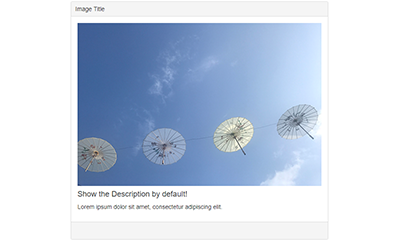
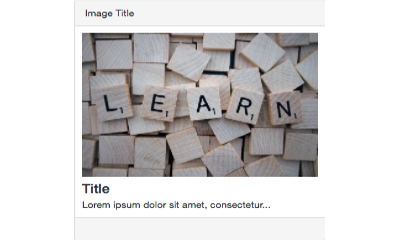
LDEV-4432: Tweaking snippets images and text
Adding new public domain images as well as tweaking layouts slightly

diff --git a/lams_www/web/public/ckeditor-templates/bootsnippets.js b/lams_www/web/public/ckeditor-templates/bootsnippets.js
@@ -115,11 +115,11 @@ CKEDITOR.addSnippets( 'bootsnippets-text', {
 		css: '',
 		html: 
 		'<div class="row">' +
-		'	<div class="col-md-6 col-md-offset-3">Lorem ipsum dolor sit amet, consectetur adipiscing elit, sed do eiusmod tempor incididunt ut labore et dolore magna aliqua.</div>' +
+		'	<div class="col-md-8 col-md-offset-2 lead"><em>"It is the same with people as it is with riding a bike. Only when moving can one comfortably maintain one\'s balance."</em></div>' +
 		'</div>' +
 		'<div class="row">' +
-		'	<div class="text-center voffset20">' +
-		'		<img src="https://www.w3schools.com/bootstrap/img_avatar1.png" style="width:60px">' +
+		'	<div class="text-center">' +
+		'		<img class="img-circle" src="/lams/www/public/ckeditor-templates/images/albert.jpg" style="width:80px">' +
 		'	</div>' +
 		'</div>'
 	},
@@ -221,7 +221,7 @@ CKEDITOR.addSnippets( 'bootsnippets-image', {
 		css: '',
 		html: 
 		'<div class="col-md-12">' +
-			'<img alt="..." class="img-responsive center-block" src="/lams/www/public/ckeditor-templates/images/orangutan_house.jpg">' +
+			'<img class="img-responsive center-block" src="/lams/www/public/ckeditor-templates/images/centered_image.jpg">' +
 		'</div>'
 	},
 	{
@@ -232,7 +232,7 @@ CKEDITOR.addSnippets( 'bootsnippets-image', {
 		html: 
 		'<div class="row">' +
 	    ' 	<div class="col-md-12" style="padding-left:0; padding-right:0;">' +
-	    '  		<img src="/lams/www/public/ckeditor-templates/images/orangutan_house.jpg" class="img-responsive" style="width: 100%;"/>' +
+	    '  		<img src="/lams/www/public/ckeditor-templates/images/image_full_width.jpg" class="img-responsive" style="width: 100%;"/>' +
 	    '	</div>' +
 	    '</div>'
 	},
@@ -244,7 +244,7 @@ CKEDITOR.addSnippets( 'bootsnippets-image', {
 		html: 
 		'<div class="row">' +
 		'	<div class="col-md-4 col-sm-6">' +
-		'		<img class="img-responsive" src="/lams/www/public/ckeditor-templates/images/orangutan_house.jpg">' +
+		'		<img class="img-responsive" src="/lams/www/public/ckeditor-templates/images/sanfran.jpg">' +
 		'	</div>' +
 	
 		'	<div class="col-md-8 col-sm-6">' +
@@ -260,8 +260,8 @@ CKEDITOR.addSnippets( 'bootsnippets-image', {
 		css: '',
 		html: 
 		'<div class="container">' +
-		'	<div class="col-md-6">' +
-		'		<img alt="test" class="img-responsive" src="/lams/www/public/ckeditor-templates/images/soaring_umbrellas.jpg">' +
+		'	<div class="col-xs-12 col-sm-9 col-sm-offset-1">' +
+		'		<img class="img-responsive" src="/lams/www/public/ckeditor-templates/images/desk.jpg">' +
 		'		<div class="carousel-caption">' +
 		'			<h2>Lorem ipsum dolor sit amet, consectetur adipiscing elit. Ut eleifend, turpis non luctus tempor</h2>' +
 		'		</div>' +
@@ -276,11 +276,11 @@ CKEDITOR.addSnippets( 'bootsnippets-image', {
 		html: 
 		'<div class="col-md-6">' +
 		'	<div class="panel panel-default">' +
-		'		<div class="panel-heading">Image Title</div>' +
+		'		<div class="panel-heading">Image header</div>' +
 			
 		'		<div class="panel-body">' +
-		'			<img alt="" class="img-responsive center-block" src="/lams/www/public/ckeditor-templates/images/soaring_umbrellas.jpg">' +
-		'			<h4>Show the Description by default!</h4>' +
+		'			<img class="img-responsive center-block" src="/lams/www/public/ckeditor-templates/images/learn.jpg">' +
+		'			<h4>Title</h4>' +
 		'			<p>Lorem ipsum dolor sit amet, consectetur adipiscing elit. Sed in lobortis nisl, vitae iaculis sapien. Phasellus ultrices gravida massa luctus ornare. Suspendisse blandit quam elit, eu imperdiet neque semper et.</p>' +
 		'		</div>' +
 		
@@ -304,26 +304,26 @@ CKEDITOR.addSnippets( 'bootsnippets-image', {
 		'    <div class="carousel-inner">' +
 		
 		'      <div class="item active">' +
-		'        <img src="/lams/www/public/ckeditor-templates/images/sealine.jpg" alt="Los Angeles" style="width:100%;">' +
+		'        <img src="/lams/www/public/ckeditor-templates/images/sealine.jpg" style="width:100%;">' +
 		'        <div class="carousel-caption">' +
-		'          <h3>Cape Phiolent</h3>' +
-		'          <p>Is always so much fun!</p>' +
+		'          <h3>Ireland</h3>' +
+		'          <p>Sealine</p>' +
 		'        </div>' +
 		'      </div>' +
 		
 		'      <div class="item">' +
-		'        <img src="/lams/www/public/ckeditor-templates/images/desert.jpg" alt="Chicago" style="width:100%;">' +
+		'        <img src="/lams/www/public/ckeditor-templates/images/meduana.jpg" style="width:100%;">' +
 		'        <div class="carousel-caption">' +
-		'          <h3>Iran</h3>' +
-		'          <p>Thank you, Iranian desert!</p>' +
+		'          <h3>Germany</h3>' +
+		'          <p>Speicherstadt, Hamburg</p>' +
 		'        </div>' +
 		'      </div>' +
 		    
 		'      <div class="item">' +
-		'        <img src="/lams/www/public/ckeditor-templates/images/mountain_ridge.jpg" alt="New York" style="width:100%;">' +
+		'        <img src="/lams/www/public/ckeditor-templates/images/fuji.jpg" style="width:100%;">' +
 		'        <div class="carousel-caption">' +
-		'          <h3>Tehran</h3>' +
-		'          <p>We love Tehran!</p>' +
+		'          <h3>Japan</h3>' +
+		'          <p>Mount Fuji</p>' +
 		'        </div>' +
 		'      </div>' +
 		  
@@ -348,7 +348,7 @@ CKEDITOR.addSnippets( 'bootsnippets-image', {
 		'<div class="row">' +
 		'    <div class="col-md-6">' +
 		'	    <div class="thumbnail">' +
-		'	        <img src="/lams/www/public/ckeditor-templates/images/sealine.jpg" alt="Lights" style="width:100%">' +
+		'	        <img alt="" src="/lams/www/public/ckeditor-templates/images/stairs.jpg" style="width:100%">' +
 		'	        <div class="caption">' +
 		'	          <p>Lorem ipsum donec id elit non mi porta gravida at eget metus.</p>' +
 		'	        </div>' +
@@ -356,7 +356,7 @@ CKEDITOR.addSnippets( 'bootsnippets-image', {
 		'	  </div>' +
 		'	  <div class="col-md-6">' +
 		'	    <div class="thumbnail">' +
-		'	        <img src="/lams/www/public/ckeditor-templates/images/desert.jpg" alt="Nature" style="width:100%">' +
+		'	        <img alt="" src="/lams/www/public/ckeditor-templates/images/study.jpg" style="width:100%">' +
 		'	        <div class="caption">' +
 		'	          <p>Lorem ipsum donec id elit non mi porta gravida at eget metus.</p>' +
 		'	        </div>' +
@@ -373,7 +373,7 @@ CKEDITOR.addSnippets( 'bootsnippets-image', {
 		'<div class="row">' +
 		'    <div class="col-md-4">' +
 		'	    <div class="thumbnail">' +
-		'	        <img src="/lams/www/public/ckeditor-templates/images/sealine.jpg" alt="Lights" style="width:100%">' +
+		'	        <img src="/lams/www/public/ckeditor-templates/images/math.jpg" alt="" style="width:100%">' +
 		'	        <div class="caption">' +
 		'	          <p>Lorem ipsum donec id elit non mi porta gravida at eget metus.</p>' +
 		'	        </div>' +
@@ -381,7 +381,7 @@ CKEDITOR.addSnippets( 'bootsnippets-image', {
 		'	  </div>' +
 		'	  <div class="col-md-4">' +
 		'	    <div class="thumbnail">' +
-		'	        <img src="/lams/www/public/ckeditor-templates/images/desert.jpg" alt="Nature" style="width:100%">' +
+		'	        <img src="/lams/www/public/ckeditor-templates/images/ideas.jpg" alt="" style="width:100%">' +
 		'	        <div class="caption">' +
 		'	          <p>Lorem ipsum donec id elit non mi porta gravida at eget metus.</p>' +
 		'	        </div>' +
@@ -389,7 +389,7 @@ CKEDITOR.addSnippets( 'bootsnippets-image', {
 		'	  </div>' +
 		'	  <div class="col-md-4">' +
 		'	    <div class="thumbnail">' +
-		'	        <img src="/lams/www/public/ckeditor-templates/images/mountain_ridge.jpg" alt="Fjords" style="width:100%">' +
+		'	        <img src="/lams/www/public/ckeditor-templates/images/cogs.jpg" alt="" style="width:100%">' +
 		'	        <div class="caption">' +
 		'	          <p>Lorem ipsum donec id elit non mi porta gravida at eget metus.</p>' +
 		'	        </div>' +
@@ -416,7 +416,7 @@ CKEDITOR.addSnippets( 'bootsnippets-multimedia', {
 		'<h2>Responsive Embed</h2>' +
 		'<p>Create a responsive video and scale it nicely to the parent element with an 16:9 aspect ratio</p>' +
 
-		'<div class="col-lg-10">' +
+		'<div class="col-lg-12">' +
 		'	<div class="embed-responsive embed-responsive-16by9" data-oembed-url="https://www.youtube.com/embed/">' +
 		'		<iframe class="embed-responsive-item" src="https://www.youtube.com/embed/2uTMTyqQxl4"></iframe>' +
 		'	</div>' +
